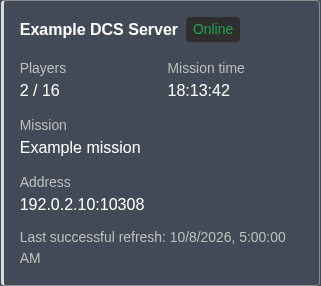
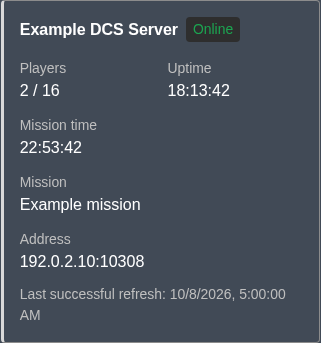
Add mission start time to add as offset for in-game time

Changed region(s): [[0.0623, 0.1678, 0.4673, 0.7832], [0.0623, 0.028, 0.7788, 0.3357], [0.0623, 0.8112, 0.9034, 0.951]]

diff --git a/test/javascripts/acceptance/inline-card-test.js b/test/javascripts/acceptance/inline-card-test.js
@@ -15,6 +15,7 @@ const status = {
     players_max: 16,
     mission: "Example mission",
     mission_time_seconds: 172801,
+    mission_clock_seconds: 16801,
     ip_address: "192.0.2.10",
     port: 10308,
   },
@@ -48,6 +49,12 @@ for (const mobile of [false, true]) {
           .dom(".cooked .dcs-server-status-card")
           .includesText("2d 00:00:01");
         assert
+          .dom(".cooked .dcs-server-status-card__uptime")
+          .includesText("Uptime");
+        assert
+          .dom(".cooked .dcs-server-status-card__clock dd")
+          .hasText("04:40:01");
+        assert
           .dom(".cooked .dcs-server-status-placeholder")
           .doesNotIncludeText("view this post");
 
@@ -72,6 +79,9 @@ acceptance("DCS status | Composer preview", function (needs) {
     assert
       .dom(".d-editor-preview .dcs-server-status-card")
       .includesText("Example mission");
+    assert
+      .dom(".d-editor-preview .dcs-server-status-card__clock dd")
+      .hasText("04:40:01");
 
     await fillIn(".d-editor-input", "```\n[dcs-status]\n```");
     assert.dom(".d-editor-preview .dcs-server-status-card").doesNotExist();

diff --git a/assets/stylesheets/dcs-server-status.scss b/assets/stylesheets/dcs-server-status.scss
@@ -48,6 +48,7 @@
     }
   }
 
+  &__clock,
   &__mission,
   &__address {
     grid-column: 1 / -1;

diff --git a/spec/lib/mission_clock_spec.rb b/spec/lib/mission_clock_spec.rb
@@ -1,0 +1,145 @@
+# frozen_string_literal: true
+
+require "rails_helper"
+
+RSpec.describe DcsServerStatus::Store, :dcs_server_status do
+  before { configure_dcs }
+
+  def cache_elapsed(seconds)
+    described_class.write_snapshot(
+      {
+        "status" => "online",
+        "last_success_at" => Time.now.to_i,
+        "server" => {
+          "mission_time_seconds" => seconds
+        }
+      },
+      DcsServerStatus::Configuration.new
+    )
+  end
+
+  it "leaves the offset optional and the clock null by default" do
+    cache_elapsed(65_622)
+    expect(SiteSetting.dcs_server_status_mission_start_time_offset).to eq("")
+    expect(DcsServerStatus::Configuration.new.ready?).to eq(true)
+    expect(described_class.public_status[:server]).to include(
+      "mission_time_seconds" => 65_622,
+      "mission_clock_seconds" => nil
+    )
+  end
+
+  [
+    ["00:00", 0, 0],
+    ["04:40", 0, 16_800],
+    ["04:40", 65_622, 82_422],
+    ["23:00", 7200, 3600],
+    ["04:40:30", 172_801, 16_831],
+    ["23:59:59", 1, 0]
+  ].each do |offset, elapsed, expected|
+    it "calculates #{offset} plus #{elapsed} seconds as #{expected} seconds into the day" do
+      SiteSetting.dcs_server_status_mission_start_time_offset = offset
+      cache_elapsed(elapsed)
+      expect(
+        described_class.public_status[:server]["mission_clock_seconds"]
+      ).to eq(expected)
+    end
+  end
+
+  [
+    "24:00",
+    "04:60",
+    "04:40:60",
+    "4:40",
+    "04:4",
+    "noon",
+    "-1:00",
+    "04:40\n"
+  ].each do |offset|
+    it "rejects invalid start time #{offset.inspect}" do
+      expect do
+        SiteSetting.dcs_server_status_mission_start_time_offset = offset
+      end.to raise_error(Discourse::InvalidParameters)
+      expect(SiteSetting.dcs_server_status_mission_start_time_offset).to eq("")
+    end
+  end
+
+  it "provides a useful validation message" do
+    expect do
+      SiteSetting.dcs_server_status_mission_start_time_offset = "24:00"
+    end.to raise_error(Discourse::InvalidParameters, /HH:MM/)
+  end
+
+  it "keeps the raw cache unchanged and lets an admin clear the offset" do
+    cache_elapsed(0)
+    config = DcsServerStatus::Configuration.new
+    snapshot = described_class.snapshot(config)
+    SiteSetting.dcs_server_status_mission_start_time_offset = "04:40"
+    described_class.public_status
+    expect(described_class.snapshot(config)).to eq(snapshot)
+
+    SiteSetting.dcs_server_status_mission_start_time_offset = ""
+    expect(
+      described_class.public_status[:server]["mission_clock_seconds"]
+    ).to be_nil
+  end
+
+  it "keeps the fixed offset when the mission changes or restarts" do
+    SiteSetting.dcs_server_status_mission_start_time_offset = "04:40"
+    stub_ed([ed_server("MISSION_TIME" => "65622")])
+    DcsServerStatus::Refresh.call
+    expect(
+      described_class.public_status[:server]["mission_clock_seconds"]
+    ).to eq(82_422)
+
+    stub_ed([ed_server("MISSION_NAME" => "New mission", "MISSION_TIME" => "0")])
+    DcsServerStatus::Refresh.call(force: true)
+    expect(described_class.public_status[:server]).to include(
+      "mission" => "New mission",
+      "mission_time_seconds" => 0,
+      "mission_clock_seconds" => 16_800
+    )
+  end
+
+  it "uses the last observation during failures without advancing either clock" do
+    freeze_time
+    SiteSetting.dcs_server_status_mission_start_time_offset = "04:40"
+    cache_elapsed(65_622)
+    server = described_class.public_status[:server]
+    freeze_time(Time.now + 11.minutes)
+    expect(described_class.public_status).to include(
+      stale: true,
+      server: server
+    )
+
+    stub_request(:get, DcsServerStatus::EdClient::LOGIN_URL).to_timeout
+    DcsServerStatus::Refresh.call(force: true)
+    expect(described_class.public_status).to include(
+      stale: true,
+      server: server
+    )
+
+    stub_ed([ed_server("MISSION_TIME" => "0")])
+    DcsServerStatus::Refresh.call(force: true)
+    expect(described_class.public_status).to include(stale: false)
+    expect(
+      described_class.public_status[:server]["mission_clock_seconds"]
+    ).to eq(16_800)
+
+    freeze_time(Time.now + 24.hours)
+    expect(described_class.public_status).to include(
+      status: "unknown",
+      server: nil
+    )
+  end
+
+  it "does not create a clock for a missing elapsed value or absent server" do
+    SiteSetting.dcs_server_status_mission_start_time_offset = "04:40"
+    cache_elapsed(nil)
+    expect(
+      described_class.public_status[:server]["mission_clock_seconds"]
+    ).to be_nil
+
+    described_class.clear_status!
+    expect(described_class.public_status[:server]).to be_nil
+  end
+end

diff --git a/spec/requests/status_spec.rb b/spec/requests/status_spec.rb
@@ -49,6 +49,38 @@ RSpec.describe "DCS status endpoints", :dcs_server_status do
       expect(response.status).to eq(200)
     end
 
+    it "updates the mission clock from cache without queuing a refresh or clearing the session" do
+      stub_ed([ed_server("MISSION_TIME" => "65622")])
+      DcsServerStatus::Refresh.call
+      config = DcsServerStatus::Configuration.new
+      snapshot = DcsServerStatus::Store.snapshot(config)
+      session = DcsServerStatus::Store.session(config)
+      Jobs::DcsServerStatusRefresh.jobs.clear
+
+      [["04:40", 82_422], ["00:00", 65_622], ["", nil]].each do |offset, clock|
+        SiteSetting.dcs_server_status_mission_start_time_offset = offset
+        get "/dcs-status.json"
+        expect(response.status).to eq(200)
+        expect(response.parsed_body["server"]).to include(
+          "mission_time_seconds" => 65_622,
+          "mission_clock_seconds" => clock
+        )
+        expect(DcsServerStatus::Configuration.new.identity).to eq(
+          config.identity
+        )
+        expect(DcsServerStatus::Store.snapshot(config)).to eq(snapshot)
+        expect(DcsServerStatus::Store.session(config)).to eq(session)
+        expect(Jobs::DcsServerStatusRefresh.jobs).to be_empty
+      end
+
+      expect(
+        a_request(:get, DcsServerStatus::EdClient::LIST_URL)
+      ).to have_been_made.twice
+      expect(
+        a_request(:post, DcsServerStatus::EdClient::LOGIN_URL)
+      ).to have_been_made.once
+    end
+
     it "returns unavailable when the plugin is disabled" do
       SiteSetting.dcs_server_status_enabled = false
       get "/dcs-status.json"

diff --git a/lib/dcs_server_status/store.rb b/lib/dcs_server_status/store.rb
@@ -48,6 +48,16 @@ module ::DcsServerStatus
       data = snapshot(config)
       success_at = data["last_success_at"]
       expired = success_at.nil? || Time.now.to_i - success_at >= RETENTION
+      server = expired ? nil : data["server"]
+      if server
+        elapsed = server["mission_time_seconds"]
+        offset = config.mission_start_time_offset_seconds
+        clock =
+          if !offset.nil? && elapsed.is_a?(Integer) && elapsed >= 0
+            (offset + elapsed) % 86_400
+          end
+        server = server.merge("mission_clock_seconds" => clock)
+      end
 
       {
         status: expired ? "unknown" : data.fetch("status", "unknown"),
@@ -58,7 +68,7 @@ module ::DcsServerStatus
                 Time.now.to_i - success_at > config.interval * 2
             ),
         last_success_at: success_at && Time.at(success_at).utc.iso8601,
-        server: expired ? nil : data["server"],
+        server: server,
         server_name: config.server_name
       }
     end

diff --git a/lib/dcs_server_status/configuration.rb b/lib/dcs_server_status/configuration.rb
@@ -4,7 +4,11 @@ require "digest"
 
 module ::DcsServerStatus
   class Configuration
-    attr_reader :username, :password, :server_name, :interval
+    attr_reader :username,
+                :password,
+                :server_name,
+                :interval,
+                :mission_start_time_offset_seconds
 
     def initialize
       @enabled = SiteSetting.dcs_server_status_enabled
@@ -13,6 +17,12 @@ module ::DcsServerStatus
       @server_name = SiteSetting.dcs_server_status_server_name.strip
       @interval =
         SiteSetting.dcs_server_status_poll_interval_minutes.minutes.to_i
+      offset = SiteSetting.dcs_server_status_mission_start_time_offset
+      if offset.present?
+        hours, minutes, seconds = offset.split(":").map(&:to_i)
+        @mission_start_time_offset_seconds =
+          hours * 3600 + minutes * 60 + seconds.to_i
+      end
     end
 
     def ready?

diff --git a/plugin.rb b/plugin.rb
@@ -2,7 +2,7 @@
 
 # name: discourse-dcs-server-status
 # about: Live Eagle Dynamics DCS server status cards in forum posts.
-# version: 0.1.1
+# version: 0.1.2
 # authors: fearlessfrog
 # url: https://github.com/fearlessfrog/discourse-dcs-server-status
 # required_version: 2026.10.0-latest
@@ -25,6 +25,7 @@ after_initialize do
 
   on(:site_setting_changed) do |name, _old_value, _new_value|
     next unless name.to_s.start_with?("dcs_server_status_")
+    next if name.to_s == "dcs_server_status_mission_start_time_offset"
 
     if %w[dcs_server_status_username dcs_server_status_password].include?(
          name.to_s

diff --git a/spec/lib/refresh_spec.rb b/spec/lib/refresh_spec.rb
@@ -49,6 +49,7 @@ RSpec.describe DcsServerStatus::Refresh, :dcs_server_status do
         "port" => 10_308,
         "mission" => "Foothold & Cold War",
         "mission_time_seconds" => 96_898,
+        "mission_clock_seconds" => nil,
         "players" => 0,
         "players_max" => 16
       )

diff --git a/README.md b/README.md
@@ -10,13 +10,15 @@ Put this on its own line, outside a code block:
 
 In the rich-text editor, typing or pasting this as a separate paragraph creates a status placeholder and saves the shortcode without escaping its brackets. Code examples and inline mentions of the shortcode stay literal. If an older post saved it as `\[dcs-status\]`, switch that post to Markdown editing and remove the backslashes.
 
-The card shows the server name, whether ED lists it, player count/capacity, mission, ED-reported mission time, connection address, and last successful refresh. All cards refer to the single server configured by an admin, including cards in old posts. There is no bot account or header panel.
+The card shows the server name, whether ED lists it, player count/capacity, mission uptime, optional calculated in-game mission clock, mission, connection address, and last successful refresh. All cards refer to the single server configured by an admin, including cards in old posts. There is no bot account or header panel.
 
 Colors inherit the forum's active Discourse theme, including light and dark palettes. No separate color configuration is required.
 
 Example card with sample data in a dark theme:
 
 ![DCS server status card](docs/images/status-card.png)
+
+[View the mobile example](docs/images/status-card-mobile.png).
 
 ## Installation
 
@@ -40,8 +42,9 @@ Use your actual container name if it is not `app`. The rebuild briefly interrupt
 1. Create a dedicated ED account and confirm it can access the server list when logged in. Do not use an account with purchased modules for monitoring.
 2. In **Admin → Plugins → DCS Server Status plugin → Settings**, enter the ED username, ED password, and full server name exactly as ED lists it (for example, `Example DCS Server`), then enable the plugin.
 3. Leave the polling interval at five minutes, or select two to five minutes.
-4. Open the plugin’s **Connection** tab, select **Refresh now**, wait a few seconds, and select **Reload diagnostics**. This is also the live unattended sign-in smoke test.
-5. Create a test post with `[dcs-status]` on its own line. Check it as an admin, a regular member, and a guest if guest access is enabled.
+4. Optionally set **Mission start time offset** to the mission's starting clock, such as `04:40` or `04:40:30`. Use 24-hour `HH:MM` or `HH:MM:SS`; leave blank to hide the calculated clock.
+5. Open the plugin’s **Connection** tab, select **Refresh now**, wait a few seconds, and select **Reload diagnostics**. This is also the live unattended sign-in smoke test.
+6. Create a test post with `[dcs-status]` on its own line. Check it as an admin, a regular member, and a guest if guest access is enabled.
 
 If authentication fails, check the Connection diagnostic and log into ED manually with the dedicated account. CAPTCHA/interactive verification is not automated. Successful browser access alone does not establish that unattended Ruby login works.
 
@@ -51,7 +54,10 @@ If authentication fails, check the Connection diagnostic and log into ED manuall
 - All visible cards share one browser request per minute. Requests pause in hidden tabs and stop after cards are removed. Status is a current view, not a historical snapshot of when the post was written.
 - **Online** means the server appears in ED’s list. **Not listed by Eagle Dynamics** means a valid list did not contain its exact name; it is not proof that the server process is offline.
 - Refresh failures retain the last successful result, marked **Stale**, for at most 24 hours. Results also become stale after twice the polling interval without a success. Before a first success, or after retention expires, status is unavailable.
-- **Mission time** displays ED's `MISSION_TIME` value in `HH:MM:SS` format, matching its server-list display (for example, `65622` seconds becomes `18:13:42`). Values over 24 hours include days. The supplied JSON has no separate time-of-day or mission-start field, so the plugin does not derive an in-game clock or server uptime from it. Mission names are text; ED descriptions and formatted HTML are not rendered.
+- **Uptime** displays ED's `MISSION_TIME` elapsed duration for the current mission in `HH:MM:SS` format, with days for durations over 24 hours. It resets when the mission restarts; it is not the uptime of the DCS server process.
+- **Mission time** is an optional calculated mission-local clock: `(configured starting clock + ED elapsed seconds) modulo 24 hours`. A start of `04:40` plus uptime `18:13:42` displays `22:53:42`. ED's JSON does not supply the starting clock; update the fixed offset manually whenever a mission starts at a different time. The setting applies to every mission until changed.
+- Both times represent ED's last successful observation, including when marked **Stale**. The browser does not advance them between refreshes or convert the mission clock to the viewer's timezone. This is a calculated clock, not an independent reading of DCS's current time. Changing or clearing the offset uses the existing cache on the next card request without an ED refresh or sign-in.
+- `/dcs-status.json` retains `server.mission_time_seconds` and adds `server.mission_clock_seconds` (seconds into the mission-local day, or `null` when unconfigured). Mission names are escaped text; ED descriptions and formatted HTML are not rendered.
 - Names must be unique and match exactly. Update the setting if the server is renamed. IP changes are picked up automatically.
 - Username and password are server-only site settings. The password uses Discourse’s masked secret field and filtered setting-change logs. Standard site-setting storage is not encrypted at rest: administrators, database operators, and backups can access it.
 - ED cookies are kept server-side in namespaced Redis for up to 24 hours. Credentials and cookies are excluded from public payloads, job arguments, and plugin logs. Changing credentials clears the session and cached result.
